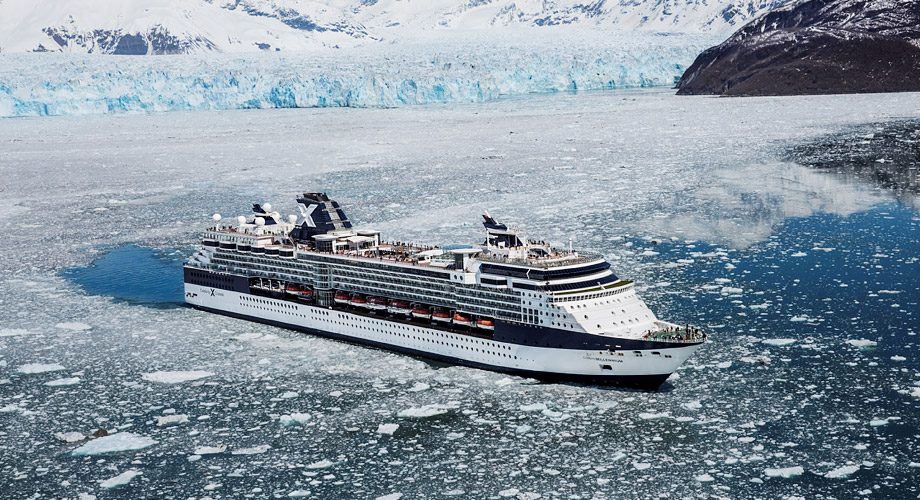
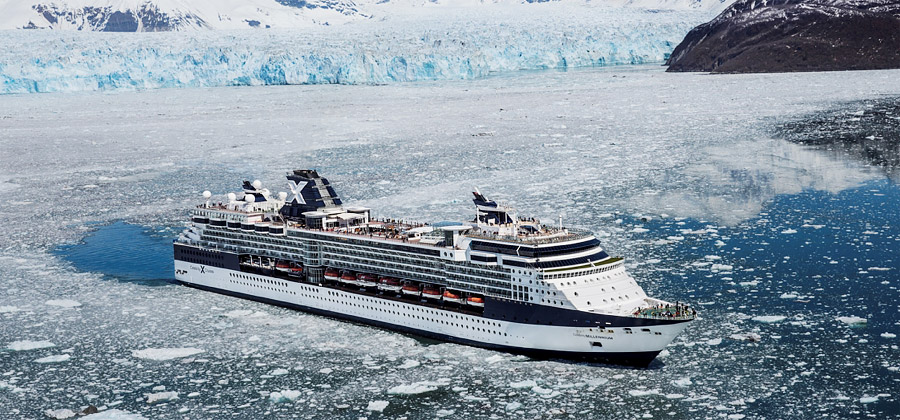
운항지역 서브페이지 수정 바녕ㅇ

diff --git a/src/css/celebrity.css b/src/css/celebrity.css
@@ -1,2 +1,2 @@
-@charset "UTF-8";@font-face{font-family:'Nanum Gothic';font-style:normal;font-weight:700;src:url(../font/NanumGothic-Bold.eot);src:url(../font/NanumGothic-Bold.eot?#iefix) format("embedded-opentype"),url(../font/NanumGothic-Bold.woff2) format("woff2"),url(../font/NanumGothic-Bold.woff) format("woff"),url(../font/NanumGothic-Bold.ttf) format("truetype")}@font-face{font-family:'Nanum Gothic';font-style:normal;font-weight:400;src:url(../font/NanumGothic-Regular.eot);src:url(../font/NanumGothic-Regular.eot?#iefix) format("embedded-opentype"),url(../font/NanumGothic-Regular.woff2) format("woff2"),url(../font/NanumGothic-Regular.woff) format("woff"),url(../font/NanumGothic-Regular.ttf) format("truetype")}@font-face{font-family:'Nanum Gothic';font-style:normal;font-weight:800;src:url(../font/NanumGothic-ExtraBold.eot);src:url(../font/NanumGothic-ExtraBold.eot?#iefix) format("embedded-opentype"),url(../font/NanumGothic-ExtraBold.woff2) format("woff2"),url(../font/NanumGothic-ExtraBold.woff) format("woff"),url(../font/NanumGothic-ExtraBold.ttf) format("truetype")}body,p,h1,h2,h3,h4,h5,h6,menu,ul,ol,li,dl,dt,dd,table,th,td,form,fieldset,legend,input,textarea,button,select{margin:0;padding:0}body,input,textarea,select,button{font-family:'Nanum Gothic','Apple SD Gothic Neo','Dotum','돋움',Sans-serif;font-size:14px}img,fieldset{border:0}menu,ul,ol{list-style:none}em,address{font-style:normal}a,a:link{text-decoration:none}legend,.blind{position:absolute;top:0;left:0;width:0;height:0;overflow:hidden;visibility:hidden;font-size:0;line-height:0}.ht{position:absolute}.blind,.u_skip{visibility:hidden;overflow:hidden;position:absolute;left:-999em;width:0;height:0;font-size:0;color:transparent;line-height:0}.slider-nav button,.footer .bi i,.footer .sns a i,.combobox .arrow,.header .bi i,.wrap.intro .intro_header_cover .bi i,.header .gnb,.header .gnb li,.symbol_ship .combox-box .arrow,.footer .bot_menu .bar,.footer .sns,.combobox,.wrap,.symbol_ship .combox-box,.symbol_thumbnail .grade .thumb_img,.symbol_thumbnail .grade .subs,.symbol_thumbnail .view_membership,.symbol_thumbnail .ask_membership,.info_list .thumbnail .btn_more_bahamas,.info_list .thumbnail .btn_more_bermuda{display:inline-block;*display:inline;*zoom:1;vertical-align:top}.slider-nav button,.footer .bi i,.footer .sns a i,.combobox .arrow,.header .bi i,.wrap.intro .intro_header_cover .bi i,.header .gnb,.header .gnb li,.symbol_ship .combox-box .arrow{background-image:url(../im/sp_gnb.png);background-repeat:no-repeat;vertical-align:top}.slider-nav button{background-image:url(../im/sp_slide.png);border:0;background-color:transparent}.footer .bi i,.footer .sns a i,.combobox i.arrow,.header .bi i,.wrap.intro .intro_header_cover .bi i,.header i.gnb,.symbol_ship .combox-box i.arrow,.slider-nav button i,.section_head .tit i,.symbol_thumbnail .view_membership i,.symbol_thumbnail .ask_membership i,.info_list .thumbnail .btn_more i,.info_list .thumbnail .btn_more_bahamas i,.info_list .thumbnail .btn_more_bermuda i,.slider-nav button span{font:0/0 a;color:transparent}.footer .footer_cover,.symbol_thumbnail .grade,.info_list ul{zoom:1}.footer .footer_cover:after,.symbol_thumbnail .grade:after,.info_list ul:after{content:'';clear:both;height:0;display:block;visibility:hidden}.footer,.header,.hero,.container,.article,.info_list{width:960px;margin:0 auto;position:relative;zoom:1}.wrap{background:url(../im/body_bg/bg_main_body.jpg) no-repeat center top}.wrap.page_intro{background-image:url(../im/body_bg/bg_intro_body.jpg)}.wrap.page_club{background-image:url(../im/body_bg/bg_club_body.jpg)}.wrap.page_room{background-image:url(../im/body_bg/bg_room_body.jpg)}.wrap.page_sail{background-image:url(../im/body_bg/bg_sail_body.jpg)}.wrap.page_activity{background-image:url(../im/body_bg/bg_activity_body.jpg)}.wrap.page_spa{background-image:url(../im/body_bg/bg_spa_body.jpg?1)}.wrap.page_enter{background-image:url(../im/body_bg/bg_enter_body.jpg)}.wrap.page_res{background-image:url(../im/body_bg/bg_res_body.jpg)}.wrap.page_ship{background-image:url(../im/body_bg/bg_ship_body.jpg)}.slider-loading{position:absolute;top:0;left:0}.slider-loading .dimmed,.slider-loading .loading{position:absolute;display:block;top:0;left:0;width:100%;height:100%}.slider-loading .dimmed{filter:alpha(opacity=70);opacity:0.7;background-color:#000}.slider-loading .loading{background:url(../img/loading.gif) no-repeat center center}.slider-body{height:463px;overflow:hidden;zoom:1;background-color:#fff}.slider-body .cover{position:absolute;left:0;top:0;width:916px;height:463px;overflow:hidden}.slider-body .item{position:absolute;background-color:#fff}.slider-body .caption{position:absolute;bottom:0;right:0;text-align:right;line-height:30px;height:32px;color:#757575;font-size:1.1em;padding:0 10px 0 0}.slider-body img{vertical-align:top}.slider-nav{position:absolute;bottom:5px;left:0;margin:0;font-size:0;background-color:#fff;padding:0 20px 0 5px}.slider-nav button{width:24px;height:24px;background-position:5px -21px;cursor:pointer;margin-left:5px}.slider-nav button.av{background-position:-22px -21px}.footer{width:1000px;margin-bottom:40px}.footer .bot_menu{border-top:6px solid #002f63;padding:23px 0;line-height:18px;font-size:0;text-align:center}.footer .bot_menu a{color:#002f63;font-size:13px}.footer .bot_menu .bar{height:14px;border-right:1px solid #002f63;padding-left:15px;margin-right:14px;vertical-align:top;position:relative;top:2px}.footer .footer_cover{background-color:#002f63;position:relative;zoom:1}.footer .bi{float:left;padding:28px 44px 28px 39px}.footer .bi i{width:160px;height:34px;background-position:0 -70px}.footer .copyright{overflow:hidden;padding:14px 0 0 0;color:#fff}.footer .copyright address{font-size:1em;color:#fff;display:block;margin-bottom:5px}.footer .copyright p{font-size:0.85em;line-height:15px;color:#d1d5dd}.footer .connect_sns{position:absolute;right:0;top:0;padding:14px 29px 29px 0}.footer .sns{color:#fff;line-height:20px;padding:3px 0;font-size:0.9em}.footer .sns a{margin-left:1px}.footer .sns a i{width:20px;height:20px}.footer .facebook i{background-position:-168px -70px}.footer .twitter i{background-position:-193px -70px}.footer .naver i{background-position:-218px -70px}.footer .flickr i{background-position:-243px -70px}.footer .youtube i{background-position:-268px -70px}.combobox{position:absolute;right:29px;top:44px;zoom:1}.combobox .cb-button{border:1px solid #fff;background:transparent;color:#fff;height:30px;line-height:30px;padding:0 12px;box-sizing:content-box;cursor:pointer;white-space:nowrap;min-width:180px;text-align:left}.combobox .arrow{width:11px;height:30px;background-position:-306px -68px;position:absolute;right:12px;top:1px}.combobox .cb-layer{position:absolute;width:100%;top:100%;margin-top:-1px}.combobox .cb-layer ul{border:1px solid #fff;background-color:#002f63;border-bottom:0}.combobox .cb-layer a{color:#fff;display:block;padding:6px 12px 5px}.combobox .cb-layer a:hover{color:#002f63;background-color:#fff}.header .bi,.wrap.intro .intro_header_cover .bi{text-align:center;padding:45px 0 20px}.header .bi i,.wrap.intro .intro_header_cover .bi i{width:242px;height:50px;background-position:-32px 0}.wrap{min-width:100%}.header{margin-bottom:33px;z-index:30}.header .gnb{background-position:-300px 0;padding:5px 0 5px 70px;white-space:nowrap;font-size:0}.header .gnb li{background-color:#fff;line-height:50px;height:52px;background-position:209px 15px;position:relative;white-space:normal;font-size:14px}.header .gnb li a{color:#666;display:block;text-align:center;font-size:1.0em;width:221px}.header .gnb .membership{background-image:none}.header .gnb .reservation{height:50px;border:1px solid #299be1;background:url(../im/pt_gnb_reserve.png) repeat-x 0 0 #3baff6;overflow:hidden}.header .gnb .reservation a{color:#fff;width:225px}.header .gnb .sub{display:none}.header .gnb li.selected a{position:relative;z-index:20;color:#fff}.header .gnb li.selected .sub{display:block}.header .gnb .sub{position:absolute;top:0;left:0;width:100%;background-color:#002859;padding-top:55px;padding-bottom:14px;z-index:10;line-height:normal}.header .gnb .sub li{background:none transparent;height:auto;line-height:35px;padding-bottom:3px}.header .gnb .sub a{font-size:1em}.header .gnb .sub a:hover{color:#299be1}.hero{position:relative;margin-bottom:10px;height:463px;width:900px}.wrap.intro{position:absolute;top:0;bottom:0;left:0;right:0;background:none}.wrap.intro .intro_header_cover{position:absolute;top:50px;width:100%;z-index:30}.wrap.intro .intro_header_cover .bi{min-width:1000px}.wrap.intro .intro_footer_cover{position:absolute;bottom:40px;z-index:30;width:100%}.wrap.intro .intro_footer_cover .footer{margin-bottom:0}.wrap.intro .intro_content_cover{position:absolute;left:0;top:0;width:100%;height:100%;z-index:20;min-width:1000px;text-align:center;overflow:hidden;cursor:default !important}.wrap.intro .intro_content_cover .skip_intro{position:absolute;top:0;bottom:0;left:0;right:0;z-index:30}.wrap.intro .intro_content_cover .skip_intro a{display:block;width:430px;height:320px;background:url(../im/intro/intro_txt_eng.png?3) no-repeat;position:absolute;left:50%;top:50%;margin:-160px 0 0 -215px}.wrap.intro .intro_content_cover .skip_intro.lang_ko a{background-image:url(../im/intro/intro_txt_kor.png?2)}.wrap.intro .intro_content_cover #slider_container_main{position:relative;top:0px;left:0px;width:1600px;height:1080px;overflow:hidden}.wrap.intro .intro_content_cover #slider_container_main .cover{position:absolute;left:0px;top:0px;width:1600px;height:1080px;overflow:hidden}.container{width:960px;background-color:#fff;border-top:7px solid #299be1}.page_intro .header,.page_club .header,.page_room .header,.page_sail .header,.page_activity .header,.page_spa .header,.page_enter .header,.page_res .header,.page_ship .header{margin-bottom:63px}.page_intro .slider-body,.page_club .slider-body,.page_room .slider-body,.page_sail .slider-body,.page_activity .slider-body,.page_spa .slider-body,.page_enter .slider-body,.page_res .slider-body,.page_ship .slider-body{height:454px}.page_intro .slider-body .cover,.page_club .slider-body .cover,.page_room .slider-body .cover,.page_sail .slider-body .cover,.page_activity .slider-body .cover,.page_spa .slider-body .cover,.page_enter .slider-body .cover,.page_res .slider-body .cover,.page_ship .slider-body .cover{width:900px;height:454px}.page_intro .slider-body .caption,.page_club .slider-body .caption,.page_room .slider-body .caption,.page_sail .slider-body .caption,.page_activity .slider-body .caption,.page_spa .slider-body .caption,.page_enter .slider-body .caption,.page_res .slider-body .caption,.page_ship .slider-body .caption{font-size:0.9em}.page_intro .hero,.page_club .hero,.page_room .hero,.page_sail .hero,.page_activity .hero,.page_spa .hero,.page_enter .hero,.page_res .hero,.page_ship .hero{height:454px}.article .sub_tit,.symbol_table caption{color:#299be1;font-size:1.6em;text-align:left;padding-bottom:8px;font-weight:normal}.symbol_thumbnail .grade .thumb_img,.symbol_thumbnail .view_membership,.symbol_thumbnail .ask_membership{background-image:url(../im/img_membership_grade.jpg);background-repeat:no-repeat}.section_head{padding:32px 30px}.section_head .tit{height:75px;background-repeat:no-repeat}.section_head .section_list{border-collapse:collapse;table-layout:fixed;position:absolute;right:30px;top:24px}.section_head .section_list td{border:1px solid #e4e4e4;text-align:center;line-height:18px;padding:5px 5px;letter-spacing:-1px;min-width:118px}.section_head .section_list td a{color:#999;font-size:0.85em}.section_head .section_list td.selected{border:1px solid #299be1;background-color:#299be1}.section_head .section_list td.selected a{color:#fff}.page_intro .section_head .tit{background-image:url(../im/tit_head_intro.png);width:420px}.page_club .section_head .tit{background-image:url(../im/tit_head_club.png);width:492px}.page_room .section_head .tit{background-image:url(../im/tit_head_room.png);width:380px}.page_sail .section_head .tit{background-image:url(../im/tit_head_sail.png);width:380px}.page_activity .section_head .tit{background-image:url(../im/tit_head_activity.png);width:299px}.page_spa .section_head .tit{background-image:url(../im/tit_head_spa.png);width:351px}.page_enter .section_head .tit{background-image:url(../im/tit_head_enter.png);width:416px}.page_res .section_head .tit{background-image:url(../im/tit_head_res.png);width:440px}.page_ship .section_head .tit{background-image:url(../im/tit_head_ship.png);width:490px}.article{width:900px;color:#757575;margin-bottom:98px;z-index:20}.article .desc{font-size:1em;line-height:1.45em;color:#666}.article .info_list{left:-15px;padding-top:28px}.article .info_list.large_list{left:-10px}.article .image_cover{display:block;padding-top:20px}.article .image_cover img{vertical-align:top}.article .btns{text-align:center;padding-top:42px}.article .btns img{vertical-align:top}.symbol_ship{background-repeat:no-repeat;width:920px;height:370px;margin-top:50px;position:relative;zoom:1}.symbol_ship .tit{color:#fff;font-size:1.6em;margin-bottom:10px;padding:32px 0 0 44px}.symbol_ship .desc{color:#fff;font-size:1.15em;line-height:1.5em;width:350px;padding-left:44px}.symbol_ship.solstice_class{background-image:url(../im/ship/img_ship_solstice.jpg);z-index:19}.symbol_ship.millennium_class{background-image:url(../im/ship/img_ship_millennium.jpg);z-index:18}.symbol_ship.century_class{background-image:url(../im/ship/img_ship_century.jpg);z-index:17}.symbol_ship.xpedition_class{background-image:url(../im/ship/img_ship_xpedition.jpg);z-index:16}.symbol_ship .combox-box{position:absolute;top:289px;left:45px}.symbol_ship .combox-box .cb-label{width:100%;text-align:left;background-color:#299be1;color:#fff;border:0;border-radius:0;padding:0 50px 0 15px;height:50px;line-height:50px;position:relative;zoom:1;font-size:1.2em;cursor:pointer}.symbol_ship .combox-box .arrow{width:35px;height:32px;background-position:-339px -72px;position:absolute;right:14px;top:9px}.symbol_ship .combox-box .cb-list{background-color:#299be1;height:0;overflow:hidden}.symbol_ship .combox-box .cb-list a{color:#fff;display:block;height:38px;line-height:38px;padding:0 25px 0 15px;font-size:1.2em}.symbol_ship .combox-box .cb-list a .en{font-size:0.7em}.symbol_ship .combox-box .cb-list a:hover{background-color:#002f63}.symbol_ship .combox-box.open .cb-list{height:auto;overflow:visible}.symbol_table{padding:70px 0 40px}.symbol_table table{width:100%;table-layout:fixed;border-collapse:collapse}.symbol_table th,.symbol_table td{line-height:20px;padding:10px 0;text-align:center;font-weight:normal;font-size:1.2em}.symbol_table th{background-color:#299be1;color:#fff;border:1px solid #299be1}.symbol_table th:first-child{border-right:1px solid #e4e4e4}.symbol_table td{border:1px solid #e4e4e4;color:#666}.symbol_table tfoot td{border:0;text-align:left;font-size:1em}.symbol_thumbnail .grade{width:931px;margin-left:-10px;margin-bottom:42px}.symbol_thumbnail .grade li{width:300px;height:350px;margin-left:10px;float:left}.symbol_thumbnail .grade .thumb_img{width:300px;height:181px;margin-bottom:15px}.symbol_thumbnail .grade strong{font-size:1.2em;height:22px;display:block;line-height:22px;padding-left:9px;margin-bottom:10px;position:relative;zoom:1}.symbol_thumbnail .grade strong .sup{font-size:0.65em;position:relative;top:-6px}.symbol_thumbnail .grade .credit{position:absolute;right:0;top:0;border-radius:4px;color:#fff;font-size:0.8em;line-height:22px;height:22px;padding:0 8px;font-weight:normal}.symbol_thumbnail .grade .credit em{font-weight:bold}.symbol_thumbnail .grade .subs{padding-left:10px;color:#757575;font-size:1em;line-height:1.4em}.symbol_thumbnail .grade .preview .thumb_img{background-position:0 0}.symbol_thumbnail .grade .preview strong{color:#5ba432}.symbol_thumbnail .grade .preview .credit{background-color:#5ba432}.symbol_thumbnail .grade .classic .thumb_img{background-position:-311px 0}.symbol_thumbnail .grade .classic strong{color:#389bd1}.symbol_thumbnail .grade .classic .credit{background-color:#389bd1}.symbol_thumbnail .grade .select .thumb_img{background-position:-621px 0}.symbol_thumbnail .grade .select strong{color:#f1711a}.symbol_thumbnail .grade .select .credit{background-color:#f1711a}.symbol_thumbnail .grade .elite .thumb_img{background-position:0 -206px}.symbol_thumbnail .grade .elite strong{color:#58595b}.symbol_thumbnail .grade .elite .credit{background-color:#58595b}.symbol_thumbnail .grade .elite_plus .thumb_img{background-position:-311px -206px}.symbol_thumbnail .grade .elite_plus strong{color:#a1231d}.symbol_thumbnail .grade .elite_plus .credit{background-color:#a1231d}.symbol_thumbnail .grade .zenith .thumb_img{background-position:-621px -206px}.symbol_thumbnail .grade .zenith strong{color:#0a0a0a}.symbol_thumbnail .grade .zenith .credit{background-color:#0a0a0a}.symbol_thumbnail .btns{padding-top:0}.symbol_thumbnail .view_membership,.symbol_thumbnail .ask_membership{width:380px;height:68px;background-position:0 -407px;margin-right:16px}.symbol_thumbnail .ask_membership{width:400px;background-position:-400px -407px;margin-right:0}.info_list{width:930px;margin-bottom:19px}.info_list li{padding:15px;float:left}.info_list .thumbnail{width:280px;height:190px;position:relative;zoom:1;cursor:pointer}.info_list .thumbnail img{vertical-align:top}.info_list .thumbnail .subject{position:absolute;left:0;bottom:0;width:100%;height:35px;color:#fff;z-index:20;line-height:35px;text-indent:12px;font-size:0.9em}.info_list .thumbnail .deco{position:absolute;left:0;bottom:0;width:100%;height:35px;background-color:#002859;opacity:0.9;filter:alpha(opacity=90);z-index:10}.info_list .thumbnail .desc{position:absolute;top:50px;left:0;padding:0 5px 0 17px;font-size:0.8em;line-height:1.7em;z-index:20}.info_list .thumbnail .btn_more,.info_list .thumbnail .btn_more_bahamas,.info_list .thumbnail .btn_more_bermuda{background:url(../im/img_more.png?1) no-repeat;width:89px;height:27px;z-index:20;display:block;margin-top:15px}.info_list .thumbnail .desc,.info_list .thumbnail .btn_more,.info_list .thumbnail .btn_more_bahamas,.info_list .thumbnail .btn_more_bermuda{display:none;color:#fff}.info_list .thumbnail .btn_more_bahamas,.info_list .thumbnail .btn_more_bermuda{width:119px;background-position:0 -37px}.info_list .thumbnail .btn_more_bermuda{background-position:0 -74px}.info_list .hover .thumbnail .deco{top:0;height:100% !important}.info_list .hover .thumbnail .subject{top:0;bottom:auto;font-size:1.45em;font-weight:normal;padding-top:10px;text-indent:17px}.info_list .hover .thumbnail .desc,.info_list .hover .thumbnail .btn_more,.info_list .hover .thumbnail .btn_more_bahamas,.info_list .hover .thumbnail .btn_more_bermuda{display:block}.info_list .hover .thumbnail .btn_more_bahamas,.info_list .hover .thumbnail .btn_more_bermuda{display:inline-block}.info_list .hover .thumbnail .en{display:none}.info_list.large_list li{padding:10px}.info_list.large_list .thumbnail{width:440px;height:300px}.info_list.large_list .thumbnail .subject{height:45px;line-height:45px;font-size:1em;font-weight:normal;text-indent:18px}.info_list.large_list .thumbnail .deco{height:45px}.info_list.large_list .thumbnail .btn_more,.info_list.large_list .thumbnail .btn_more_bahamas,.info_list.large_list .thumbnail .btn_more_bermuda{background-position:0 -111px;width:102px}.info_list.large_list .hover .thumbnail .subject{font-size:1.15em;text-indent:28px}.info_list.large_list .hover .thumbnail .desc{font-size:0.85em;padding-left:28px;top:52px}.symbol_intro{border:2px solid #eaeaea;padding:43px 43px 50px;margin:70px 0 0}.symbol_intro .image{margin-bottom:40px}.symbol_intro .image img{vertical-align:top}.symbol_intro .desc{text-align:center;font-size:1.3em;line-height:1.6em;letter-spacing:-1px}.symbol_intro .large_txt{font-size:1.3em;line-height:1.8em}.symbol_intro .large_txt strong{color:#003468}.symbol_intro .part{background:url(../im/ico_intro_bullet.png) no-repeat center top;padding-top:50px;margin-top:20px;text-align:center}.symbol_intro .part h4{font-size:1.9em;color:#299be1;margin-bottom:10px}
+@charset "UTF-8";@font-face{font-family:'Nanum Gothic';font-style:normal;font-weight:700;src:url(../font/NanumGothic-Bold.eot);src:url(../font/NanumGothic-Bold.eot?#iefix) format("embedded-opentype"),url(../font/NanumGothic-Bold.woff2) format("woff2"),url(../font/NanumGothic-Bold.woff) format("woff"),url(../font/NanumGothic-Bold.ttf) format("truetype")}@font-face{font-family:'Nanum Gothic';font-style:normal;font-weight:400;src:url(../font/NanumGothic-Regular.eot);src:url(../font/NanumGothic-Regular.eot?#iefix) format("embedded-opentype"),url(../font/NanumGothic-Regular.woff2) format("woff2"),url(../font/NanumGothic-Regular.woff) format("woff"),url(../font/NanumGothic-Regular.ttf) format("truetype")}@font-face{font-family:'Nanum Gothic';font-style:normal;font-weight:800;src:url(../font/NanumGothic-ExtraBold.eot);src:url(../font/NanumGothic-ExtraBold.eot?#iefix) format("embedded-opentype"),url(../font/NanumGothic-ExtraBold.woff2) format("woff2"),url(../font/NanumGothic-ExtraBold.woff) format("woff"),url(../font/NanumGothic-ExtraBold.ttf) format("truetype")}body,p,h1,h2,h3,h4,h5,h6,menu,ul,ol,li,dl,dt,dd,table,th,td,form,fieldset,legend,input,textarea,button,select{margin:0;padding:0}body,input,textarea,select,button{font-family:'Nanum Gothic','Apple SD Gothic Neo','Dotum','돋움',Sans-serif;font-size:14px}img,fieldset{border:0}menu,ul,ol{list-style:none}em,address{font-style:normal}a,a:link{text-decoration:none}legend,.blind{position:absolute;top:0;left:0;width:0;height:0;overflow:hidden;visibility:hidden;font-size:0;line-height:0}.ht{position:absolute}.blind,.u_skip{visibility:hidden;overflow:hidden;position:absolute;left:-999em;width:0;height:0;font-size:0;color:transparent;line-height:0}.slider-nav button,.footer .bi i,.footer .sns a i,.combobox .arrow,.header .bi i,.wrap.intro .intro_header_cover .bi i,.header .gnb,.header .gnb li,.symbol_ship .combox-box .arrow,.footer .bot_menu .bar,.footer .sns,.combobox,.wrap,.symbol_ship .combox-box,.symbol_thumbnail .grade .thumb_img,.symbol_thumbnail .grade .subs,.symbol_thumbnail .view_membership,.symbol_thumbnail .ask_membership,.info_list .thumbnail .btn_more_bahamas,.info_list .thumbnail .btn_more_bermuda{display:inline-block;*display:inline;*zoom:1;vertical-align:top}.slider-nav button,.footer .bi i,.footer .sns a i,.combobox .arrow,.header .bi i,.wrap.intro .intro_header_cover .bi i,.header .gnb,.header .gnb li,.symbol_ship .combox-box .arrow{background-image:url(../im/sp_gnb.png);background-repeat:no-repeat;vertical-align:top}.slider-nav button{background-image:url(../im/sp_slide.png);border:0;background-color:transparent}.footer .bi i,.footer .sns a i,.combobox i.arrow,.header .bi i,.wrap.intro .intro_header_cover .bi i,.header i.gnb,.symbol_ship .combox-box i.arrow,.slider-nav button i,.section_head .tit i,.symbol_thumbnail .view_membership i,.symbol_thumbnail .ask_membership i,.info_list .thumbnail .btn_more i,.info_list .thumbnail .btn_more_bahamas i,.info_list .thumbnail .btn_more_bermuda i,.slider-nav button span{font:0/0 a;color:transparent}.footer .footer_cover,.symbol_thumbnail .grade,.info_list ul{zoom:1}.footer .footer_cover:after,.symbol_thumbnail .grade:after,.info_list ul:after{content:'';clear:both;height:0;display:block;visibility:hidden}.footer,.header,.hero,.container,.article,.info_list{width:960px;margin:0 auto;position:relative;zoom:1}.wrap{background:url(../im/body_bg/bg_main_body.jpg) no-repeat center top}.wrap.page_intro{background-image:url(../im/body_bg/bg_intro_body.jpg)}.wrap.page_club{background-image:url(../im/body_bg/bg_club_body.jpg)}.wrap.page_room{background-image:url(../im/body_bg/bg_room_body.jpg)}.wrap.page_sail{background-image:url(../im/body_bg/bg_sail_body.jpg)}.wrap.page_activity{background-image:url(../im/body_bg/bg_activity_body.jpg)}.wrap.page_spa{background-image:url(../im/body_bg/bg_spa_body.jpg?1)}.wrap.page_enter{background-image:url(../im/body_bg/bg_enter_body.jpg)}.wrap.page_res{background-image:url(../im/body_bg/bg_res_body.jpg)}.wrap.page_ship{background-image:url(../im/body_bg/bg_ship_body.jpg)}.slider-loading{position:absolute;top:0;left:0}.slider-loading .dimmed,.slider-loading .loading{position:absolute;display:block;top:0;left:0;width:100%;height:100%}.slider-loading .dimmed{filter:alpha(opacity=70);opacity:0.7;background-color:#000}.slider-loading .loading{background:url(../img/loading.gif) no-repeat center center}.slider-body{height:463px;overflow:hidden;zoom:1;background-color:#fff}.slider-body .cover{position:absolute;left:0;top:0;width:916px;height:463px;overflow:hidden}.slider-body .item{position:absolute;background-color:#fff}.slider-body .caption{position:absolute;bottom:0;right:0;text-align:right;line-height:30px;height:32px;color:#757575;font-size:1.1em;padding:0 10px 0 0}.slider-body img{vertical-align:top}.slider-nav{position:absolute;bottom:5px;left:0;margin:0;font-size:0;background-color:#fff;padding:0 20px 0 5px}.slider-nav button{width:24px;height:24px;background-position:5px -21px;cursor:pointer;margin-left:5px}.slider-nav button.av{background-position:-22px -21px}.footer{width:1000px;margin-bottom:40px}.footer .bot_menu{border-top:6px solid #002f63;padding:23px 0;line-height:18px;font-size:0;text-align:center}.footer .bot_menu a{color:#002f63;font-size:13px}.footer .bot_menu .bar{height:14px;border-right:1px solid #002f63;padding-left:15px;margin-right:14px;vertical-align:top;position:relative;top:2px}.footer .footer_cover{background-color:#002f63;position:relative;zoom:1}.footer .bi{float:left;padding:28px 44px 28px 39px}.footer .bi i{width:160px;height:34px;background-position:0 -70px}.footer .copyright{overflow:hidden;padding:14px 0 0 0;color:#fff}.footer .copyright address{font-size:1em;color:#fff;display:block;margin-bottom:5px}.footer .copyright p{font-size:0.85em;line-height:15px;color:#d1d5dd}.footer .connect_sns{position:absolute;right:0;top:0;padding:14px 29px 29px 0}.footer .sns{color:#fff;line-height:20px;padding:3px 0;font-size:0.9em}.footer .sns a{margin-left:1px}.footer .sns a i{width:20px;height:20px}.footer .facebook i{background-position:-168px -70px}.footer .twitter i{background-position:-193px -70px}.footer .naver i{background-position:-218px -70px}.footer .flickr i{background-position:-243px -70px}.footer .youtube i{background-position:-268px -70px}.combobox{position:absolute;right:29px;top:44px;zoom:1}.combobox .cb-button{border:1px solid #fff;background:transparent;color:#fff;height:30px;line-height:30px;padding:0 12px;box-sizing:content-box;cursor:pointer;white-space:nowrap;min-width:180px;text-align:left}.combobox .arrow{width:11px;height:30px;background-position:-306px -68px;position:absolute;right:12px;top:1px}.combobox .cb-layer{position:absolute;width:100%;top:100%;margin-top:-1px}.combobox .cb-layer ul{border:1px solid #fff;background-color:#002f63;border-bottom:0}.combobox .cb-layer a{color:#fff;display:block;padding:6px 12px 5px}.combobox .cb-layer a:hover{color:#002f63;background-color:#fff}.header .bi,.wrap.intro .intro_header_cover .bi{text-align:center;padding:45px 0 20px}.header .bi i,.wrap.intro .intro_header_cover .bi i{width:242px;height:50px;background-position:-32px 0}.wrap{min-width:100%}.header{margin-bottom:33px;z-index:30}.header .gnb{background-position:-300px 0;padding:5px 0 5px 70px;white-space:nowrap;font-size:0}.header .gnb li{background-color:#fff;line-height:50px;height:52px;background-position:209px 15px;position:relative;white-space:normal;font-size:14px}.header .gnb li a{color:#666;display:block;text-align:center;font-size:1.0em;width:221px}.header .gnb .membership{background-image:none}.header .gnb .reservation{height:50px;border:1px solid #299be1;background:url(../im/pt_gnb_reserve.png) repeat-x 0 0 #3baff6;overflow:hidden}.header .gnb .reservation a{color:#fff;width:225px}.header .gnb .sub{display:none}.header .gnb li.selected a{position:relative;z-index:20;color:#fff}.header .gnb li.selected .sub{display:block}.header .gnb .sub{position:absolute;top:0;left:0;width:100%;background-color:#002859;padding-top:55px;padding-bottom:14px;z-index:10;line-height:normal}.header .gnb .sub li{background:none transparent;height:auto;line-height:35px;padding-bottom:3px}.header .gnb .sub a{font-size:1em}.header .gnb .sub a:hover{color:#299be1}.hero{position:relative;margin-bottom:10px;height:463px;width:900px}.wrap.intro{position:absolute;top:0;bottom:0;left:0;right:0;background:none}.wrap.intro .intro_header_cover{position:absolute;top:50px;width:100%;z-index:30}.wrap.intro .intro_header_cover .bi{min-width:1000px}.wrap.intro .intro_footer_cover{position:absolute;bottom:40px;z-index:30;width:100%}.wrap.intro .intro_footer_cover .footer{margin-bottom:0}.wrap.intro .intro_content_cover{position:absolute;left:0;top:0;width:100%;height:100%;z-index:20;min-width:1000px;text-align:center;overflow:hidden;cursor:default !important}.wrap.intro .intro_content_cover .skip_intro{position:absolute;top:0;bottom:0;left:0;right:0;z-index:30}.wrap.intro .intro_content_cover .skip_intro a{display:block;width:430px;height:320px;background:url(../im/intro/intro_txt_eng.png?3) no-repeat;position:absolute;left:50%;top:50%;margin:-160px 0 0 -215px}.wrap.intro .intro_content_cover .skip_intro.lang_ko a{background-image:url(../im/intro/intro_txt_kor.png?2)}.wrap.intro .intro_content_cover #slider_container_main{position:relative;top:0px;left:0px;width:1600px;height:1080px;overflow:hidden}.wrap.intro .intro_content_cover #slider_container_main .cover{position:absolute;left:0px;top:0px;width:1600px;height:1080px;overflow:hidden}.container{width:960px;background-color:#fff;border-top:7px solid #299be1}.page_intro .header,.page_club .header,.page_room .header,.page_sail .header,.page_activity .header,.page_spa .header,.page_enter .header,.page_res .header,.page_ship .header{margin-bottom:63px}.page_intro .slider-body,.page_club .slider-body,.page_room .slider-body,.page_sail .slider-body,.page_activity .slider-body,.page_spa .slider-body,.page_enter .slider-body,.page_res .slider-body,.page_ship .slider-body{height:454px}.page_intro .slider-body .cover,.page_club .slider-body .cover,.page_room .slider-body .cover,.page_sail .slider-body .cover,.page_activity .slider-body .cover,.page_spa .slider-body .cover,.page_enter .slider-body .cover,.page_res .slider-body .cover,.page_ship .slider-body .cover{width:900px;height:454px}.page_intro .slider-body .caption,.page_club .slider-body .caption,.page_room .slider-body .caption,.page_sail .slider-body .caption,.page_activity .slider-body .caption,.page_spa .slider-body .caption,.page_enter .slider-body .caption,.page_res .slider-body .caption,.page_ship .slider-body .caption{font-size:0.9em}.page_intro .hero,.page_club .hero,.page_room .hero,.page_sail .hero,.page_activity .hero,.page_spa .hero,.page_enter .hero,.page_res .hero,.page_ship .hero{height:454px}.article .sub_tit,.symbol_table caption{color:#299be1;font-size:1.6em;text-align:left;padding-bottom:8px;font-weight:normal}.symbol_thumbnail .grade .thumb_img,.symbol_thumbnail .view_membership,.symbol_thumbnail .ask_membership{background-image:url(../im/img_membership_grade.jpg);background-repeat:no-repeat}.section_head{padding:32px 30px}.section_head .tit{height:75px;background-repeat:no-repeat}.section_head .section_list{border-collapse:collapse;table-layout:fixed;position:absolute;right:30px;top:24px}.section_head .section_list td{border:1px solid #e4e4e4;text-align:center;line-height:18px;padding:5px 5px;letter-spacing:-1px;min-width:118px}.section_head .section_list td a{color:#999;font-size:0.85em}.section_head .section_list td.selected{border:1px solid #299be1;background-color:#299be1}.section_head .section_list td.selected a{color:#fff}.page_intro .section_head .tit{background-image:url(../im/tit_head_intro.png);width:420px}.page_club .section_head .tit{background-image:url(../im/tit_head_club.png);width:492px}.page_room .section_head .tit{background-image:url(../im/tit_head_room.png);width:380px}.page_sail .section_head .tit{background-image:url(../im/tit_head_sail.png);width:380px}.page_activity .section_head .tit{background-image:url(../im/tit_head_activity.png);width:299px}.page_spa .section_head .tit{background-image:url(../im/tit_head_spa.png);width:351px}.page_enter .section_head .tit{background-image:url(../im/tit_head_enter.png);width:416px}.page_res .section_head .tit{background-image:url(../im/tit_head_res.png);width:440px}.page_ship .section_head .tit{background-image:url(../im/tit_head_ship.png);width:490px}.article{width:900px;color:#757575;margin-bottom:98px;z-index:20}.article .desc{font-size:1em;line-height:1.45em;color:#666}.article .info_list{left:-15px;padding-top:28px}.article .info_list.large_list{left:-10px}.article .image_cover{display:block;padding-top:20px}.article .image_cover img{vertical-align:top}.article .btns{text-align:center;padding-top:42px}.article .btns img{vertical-align:top}.symbol_ship{background-repeat:no-repeat;width:920px;height:370px;margin-top:50px;position:relative;zoom:1}.symbol_ship .tit{color:#fff;font-size:1.6em;margin-bottom:10px;padding:32px 0 0 44px}.symbol_ship .desc{color:#fff;font-size:1.15em;line-height:1.5em;width:350px;padding-left:44px}.symbol_ship.solstice_class{background-image:url(../im/ship/img_ship_solstice.jpg);z-index:19}.symbol_ship.millennium_class{background-image:url(../im/ship/img_ship_millennium.jpg);z-index:18}.symbol_ship.century_class{background-image:url(../im/ship/img_ship_century.jpg);z-index:17}.symbol_ship.xpedition_class{background-image:url(../im/ship/img_ship_xpedition.jpg);z-index:16}.symbol_ship .combox-box{position:absolute;top:289px;left:45px}.symbol_ship .combox-box .cb-label{width:100%;text-align:left;background-color:#299be1;color:#fff;border:0;border-radius:0;padding:0 50px 0 15px;height:50px;line-height:50px;position:relative;zoom:1;font-size:1.2em;cursor:pointer}.symbol_ship .combox-box .arrow{width:35px;height:32px;background-position:-339px -72px;position:absolute;right:14px;top:9px}.symbol_ship .combox-box .cb-list{background-color:#299be1;height:0;overflow:hidden}.symbol_ship .combox-box .cb-list a{color:#fff;display:block;height:38px;line-height:38px;padding:0 25px 0 15px;font-size:1.2em}.symbol_ship .combox-box .cb-list a .en{font-size:0.7em}.symbol_ship .combox-box .cb-list a:hover{background-color:#002f63}.symbol_ship .combox-box.open .cb-list{height:auto;overflow:visible}.symbol_table{padding:70px 0 40px}.symbol_table table{width:100%;table-layout:fixed;border-collapse:collapse}.symbol_table th,.symbol_table td{line-height:20px;padding:10px 0;text-align:center;font-weight:normal;font-size:1.2em}.symbol_table th{background-color:#299be1;color:#fff;border:1px solid #299be1}.symbol_table th:first-child{border-right:1px solid #e4e4e4}.symbol_table td{border:1px solid #e4e4e4;color:#666}.symbol_table tfoot td{border:0;text-align:left;font-size:1em}.symbol_thumbnail .grade{width:931px;margin-left:-10px;margin-bottom:42px}.symbol_thumbnail .grade li{width:300px;height:350px;margin-left:10px;float:left}.symbol_thumbnail .grade .thumb_img{width:300px;height:181px;margin-bottom:15px}.symbol_thumbnail .grade strong{font-size:1.2em;height:22px;display:block;line-height:22px;padding-left:9px;margin-bottom:10px;position:relative;zoom:1}.symbol_thumbnail .grade strong .sup{font-size:0.65em;position:relative;top:-6px}.symbol_thumbnail .grade .credit{position:absolute;right:0;top:0;border-radius:4px;color:#fff;font-size:0.8em;line-height:22px;height:22px;padding:0 8px;font-weight:normal}.symbol_thumbnail .grade .credit em{font-weight:bold}.symbol_thumbnail .grade .subs{padding-left:10px;color:#757575;font-size:1em;line-height:1.4em}.symbol_thumbnail .grade .preview .thumb_img{background-position:0 0}.symbol_thumbnail .grade .preview strong{color:#5ba432}.symbol_thumbnail .grade .preview .credit{background-color:#5ba432}.symbol_thumbnail .grade .classic .thumb_img{background-position:-311px 0}.symbol_thumbnail .grade .classic strong{color:#389bd1}.symbol_thumbnail .grade .classic .credit{background-color:#389bd1}.symbol_thumbnail .grade .select .thumb_img{background-position:-621px 0}.symbol_thumbnail .grade .select strong{color:#f1711a}.symbol_thumbnail .grade .select .credit{background-color:#f1711a}.symbol_thumbnail .grade .elite .thumb_img{background-position:0 -206px}.symbol_thumbnail .grade .elite strong{color:#58595b}.symbol_thumbnail .grade .elite .credit{background-color:#58595b}.symbol_thumbnail .grade .elite_plus .thumb_img{background-position:-311px -206px}.symbol_thumbnail .grade .elite_plus strong{color:#a1231d}.symbol_thumbnail .grade .elite_plus .credit{background-color:#a1231d}.symbol_thumbnail .grade .zenith .thumb_img{background-position:-621px -206px}.symbol_thumbnail .grade .zenith strong{color:#0a0a0a}.symbol_thumbnail .grade .zenith .credit{background-color:#0a0a0a}.symbol_thumbnail .btns{padding-top:0}.symbol_thumbnail .view_membership,.symbol_thumbnail .ask_membership{width:380px;height:68px;background-position:0 -407px;margin-right:16px}.symbol_thumbnail .ask_membership{width:400px;background-position:-400px -407px;margin-right:0}.info_list{width:930px;margin-bottom:19px}.info_list li{padding:15px;float:left}.info_list .thumbnail{width:280px;height:190px;position:relative;zoom:1;cursor:pointer}.info_list .thumbnail img{vertical-align:top}.info_list .thumbnail .subject{position:absolute;left:0;bottom:0;width:100%;height:35px;color:#fff;z-index:20;line-height:35px;text-indent:12px;font-size:0.9em;font-weight:normal}.info_list .thumbnail .deco{position:absolute;left:0;bottom:0;width:100%;height:35px;background-color:#002859;opacity:0.9;filter:alpha(opacity=90);z-index:10}.info_list .thumbnail .desc{position:absolute;top:50px;left:0;padding:0 5px 0 17px;font-size:0.8em;line-height:1.7em;z-index:20}.info_list .thumbnail .btn_more,.info_list .thumbnail .btn_more_bahamas,.info_list .thumbnail .btn_more_bermuda{background:url(../im/img_more.png?1) no-repeat;width:89px;height:27px;z-index:20;display:block;margin-top:15px}.info_list .thumbnail .desc,.info_list .thumbnail .btn_more,.info_list .thumbnail .btn_more_bahamas,.info_list .thumbnail .btn_more_bermuda{display:none;color:#fff}.info_list .thumbnail .btn_more_bahamas,.info_list .thumbnail .btn_more_bermuda{width:119px;background-position:0 -37px}.info_list .thumbnail .btn_more_bermuda{background-position:0 -74px}.info_list .hover .thumbnail .deco{top:0;height:100% !important}.info_list .hover .thumbnail .subject{top:0;bottom:auto;font-size:1em;font-weight:normal;padding-top:10px;text-indent:17px}.info_list .hover .thumbnail .desc,.info_list .hover .thumbnail .btn_more,.info_list .hover .thumbnail .btn_more_bahamas,.info_list .hover .thumbnail .btn_more_bermuda{display:block}.info_list .hover .thumbnail .btn_more_bahamas,.info_list .hover .thumbnail .btn_more_bermuda{display:inline-block}.info_list .hover .thumbnail .en{display:none}.info_list.large_list li{padding:10px}.info_list.large_list .thumbnail{width:440px;height:300px}.info_list.large_list .thumbnail .subject{height:45px;line-height:45px;font-size:1em;font-weight:normal;text-indent:18px}.info_list.large_list .thumbnail .deco{height:45px}.info_list.large_list .thumbnail .btn_more,.info_list.large_list .thumbnail .btn_more_bahamas,.info_list.large_list .thumbnail .btn_more_bermuda{background-position:0 -111px;width:102px}.info_list.large_list .hover .thumbnail .subject{font-size:1.15em;text-indent:28px}.info_list.large_list .hover .thumbnail .desc{font-size:0.85em;padding-left:28px;top:52px}.symbol_intro{border:2px solid #eaeaea;padding:43px 43px 50px;margin:70px 0 0}.symbol_intro .image{margin-bottom:40px}.symbol_intro .image img{vertical-align:top}.symbol_intro .desc{text-align:center;font-size:1.3em;line-height:1.6em;letter-spacing:-1px}.symbol_intro .large_txt{font-size:1.3em;line-height:1.8em}.symbol_intro .large_txt strong{color:#003468}.symbol_intro .part{background:url(../im/ico_intro_bullet.png) no-repeat center top;padding-top:50px;margin-top:20px;text-align:center}.symbol_intro .part h4{font-size:1.9em;color:#299be1;margin-bottom:10px}
 /*# sourceMappingURL=celebrity.css.map */

diff --git a/src/02_sub_sail.html b/src/02_sub_sail.html
@@ -53,37 +53,37 @@
 		        <div u="slides" class="cover">
 		            <div class="item">
 		            	<a href="#">
-		            		<img src="im/hero/img_sub_sail_01.jpg" alt="산토리니" width="920" height="500">		            		
+		            		<img src="im/hero/img_sub_sail_01.jpg" alt="산토리니"  width="900" height="420">		            		
 		            		<span class="caption">한 폭의 그림 같은 아름다운 기항지, 그리스 산토리니 | Santorini</span>
 		            	</a>
 		            </div>
 		            <div class="item">
 		            	<a href="#">
-		            		<img src="im/hero/img_sub_sail_02.jpg" alt="빌프랑쉐" width="920" height="500">		            		
+		            		<img src="im/hero/img_sub_sail_02.jpg" alt="빌프랑쉐"  width="900" height="420">		            		
 		            		<span class="caption">아시아와 유럽을 품은 매력적인 기항지, 터키 이스탄불 | Istanbul</span>
 		            	</a>
 		            </div>
 		            <div class="item">
 		            	<a href="#">
-		            		<img src="im/hero/img_sub_sail_03.jpg" alt="이스탄불" width="920" height="500">		            		
+		            		<img src="im/hero/img_sub_sail_03.jpg" alt="이스탄불"  width="900" height="420">		            		
 		            		<span class="caption">낭만이 살아 있는 프랑스 남부의 지중해 연안, 프랑스 빌프랑쉐 | Ville France</span>
 		            	</a>
 		            </div>
 		            <div class="item">
 		            	<a href="#">
-		            		<img src="im/hero/img_sub_sail_04.jpg" alt="카리브해 | Caribbean" width="920" height="500">		            		
+		            		<img src="im/hero/img_sub_sail_04.jpg" alt="카리브해 | Caribbean"  width="900" height="420">		            		
 		            		<span class="caption">에메랄드 빛 바다의 환상적인 여행지, 카리브해 | Caribbean</span>
 		            	</a>
 		            </div>
 		            <div class="item">
 		            	<a href="#">
-		            		<img src="im/hero/img_sub_sail_05.jpg" alt="알래스카 | Alaska" width="920" height="500">		            		
+		            		<img src="im/hero/img_sub_sail_05.jpg" alt="알래스카 | Alaska"  width="900" height="420">		            		
 		            		<span class="caption">대자연의 경이로움을 느낄 수 있는 지역, 알래스카 | Alaska</span>
 		            	</a>
 		            </div>
 		            <div class="item">
 		            	<a href="#">
-		            		<img src="im/hero/img_sub_sail_06.jpg" alt="듀브로브니크 | Dubrovnik Croatia" width="920" height="500">		            		
+		            		<img src="im/hero/img_sub_sail_06.jpg" alt="듀브로브니크 | Dubrovnik Croatia"  width="900" height="420">		            		
 		            		<span class="caption">듀브로브니크 | Dubrovnik Croatia</span>
 		            	</a>
 		            </div>

diff --git a/src/scss/incl/_article.scss b/src/scss/incl/_article.scss
@@ -66,7 +66,7 @@
 	.thumbnail{
 		width:280px;height:190px;position:relative;zoom:1;cursor:pointer;
 		img{vertical-align:top}
-		.subject{position:absolute;left:0;bottom:0;width:100%;height:35px;color:#fff;z-index:20;line-height:35px;text-indent:12px;font-size:0.9em}
+		.subject{position:absolute;left:0;bottom:0;width:100%;height:35px;color:#fff;z-index:20;line-height:35px;text-indent:12px;font-size:0.9em;font-weight:normal}
 		.deco{position:absolute;left:0;bottom:0;width:100%;height:35px;background-color:#002859;opacity:0.9;filter:alpha(opacity=90);z-index:10}
 		.desc{position:absolute;top:50px;left:0;padding:0 5px 0 17px;font-size:0.8em;line-height:1.7em;z-index:20}
 		.btn_more{background:url(../im/img_more.png?1) no-repeat;width:89px;height:27px;z-index:20;@extend %blind;display:block;margin-top:15px}		
@@ -77,7 +77,7 @@
 	}
 	.hover .thumbnail{
 		.deco{top:0;height:100%!important}
-		.subject{top:0;bottom:auto;font-size:1.45em;font-weight:normal;padding-top:10px;text-indent:17px}
+		.subject{top:0;bottom:auto;font-size:1em;font-weight:normal;padding-top:10px;text-indent:17px}
 		.desc,.btn_more{display:block}
 		.btn_more_bahamas,.btn_more_bermuda{display:inline-block}
 		.en{display:none}
